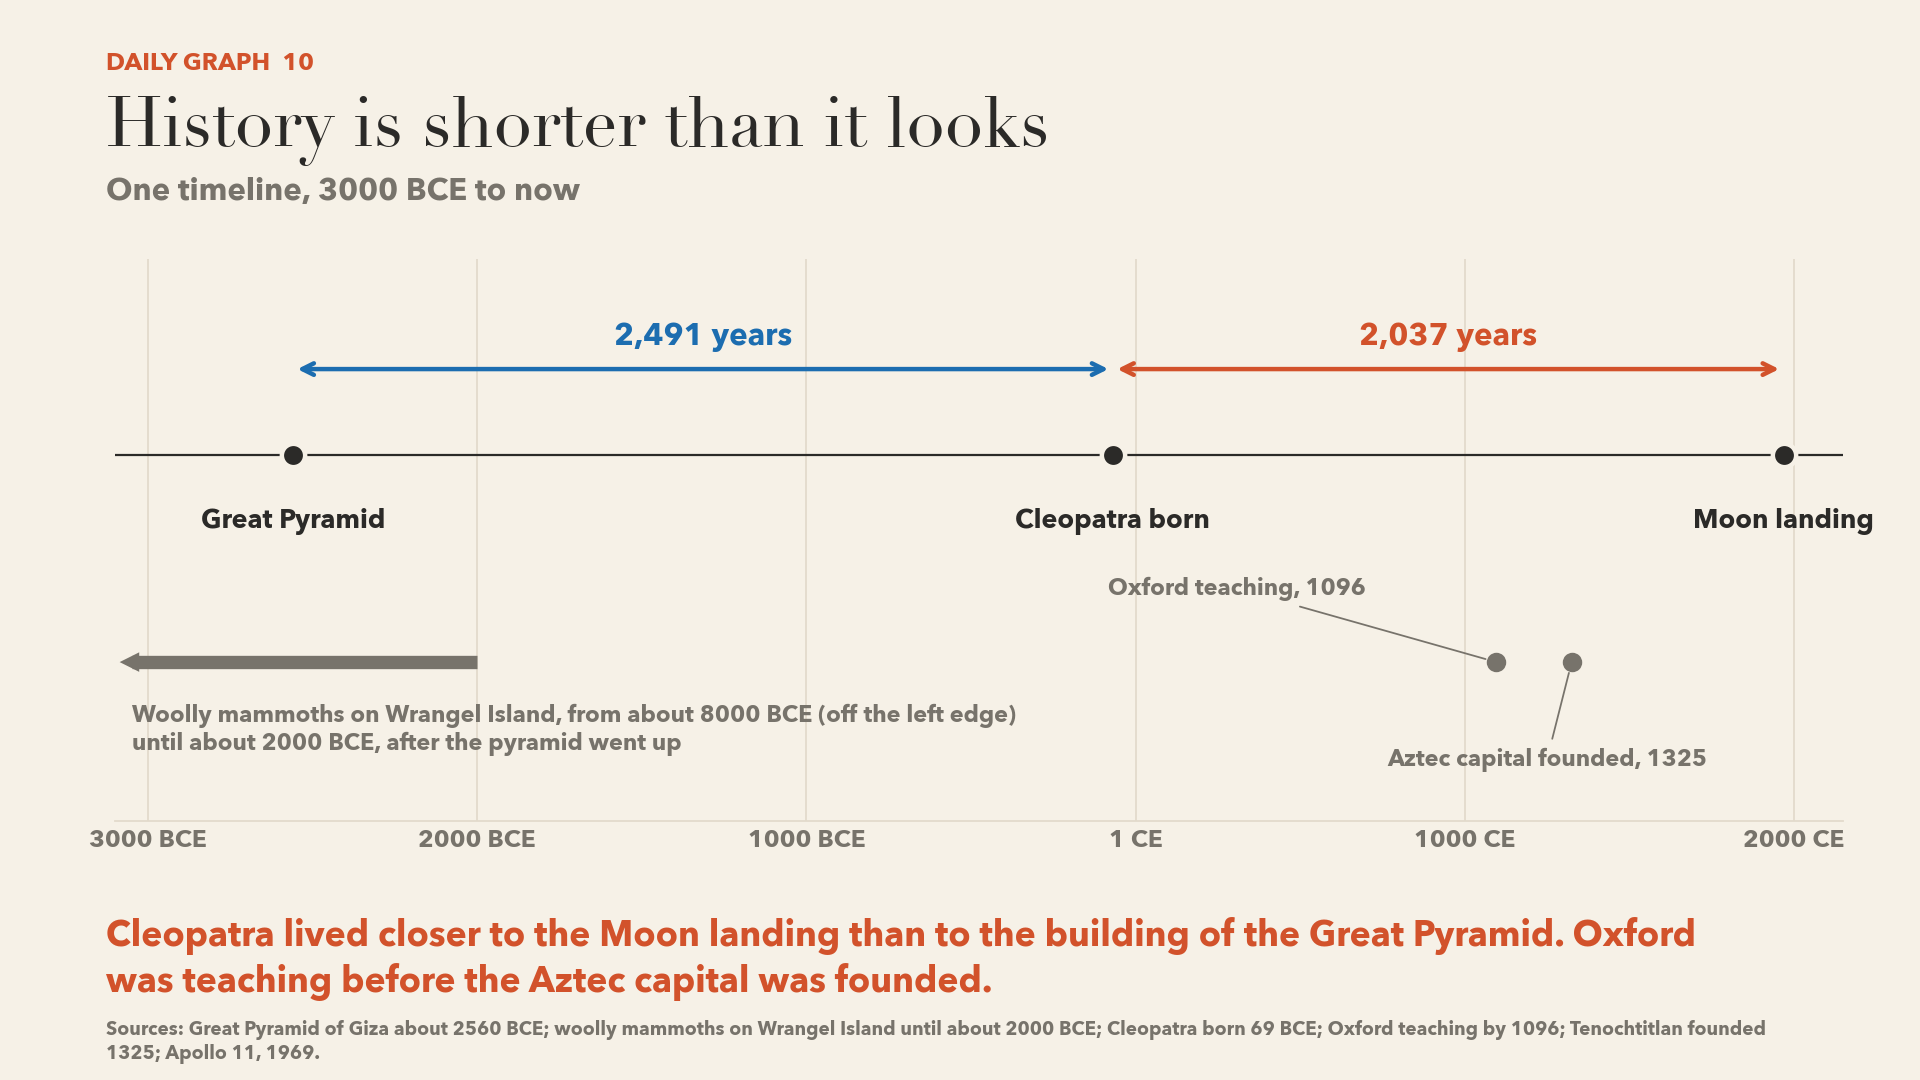
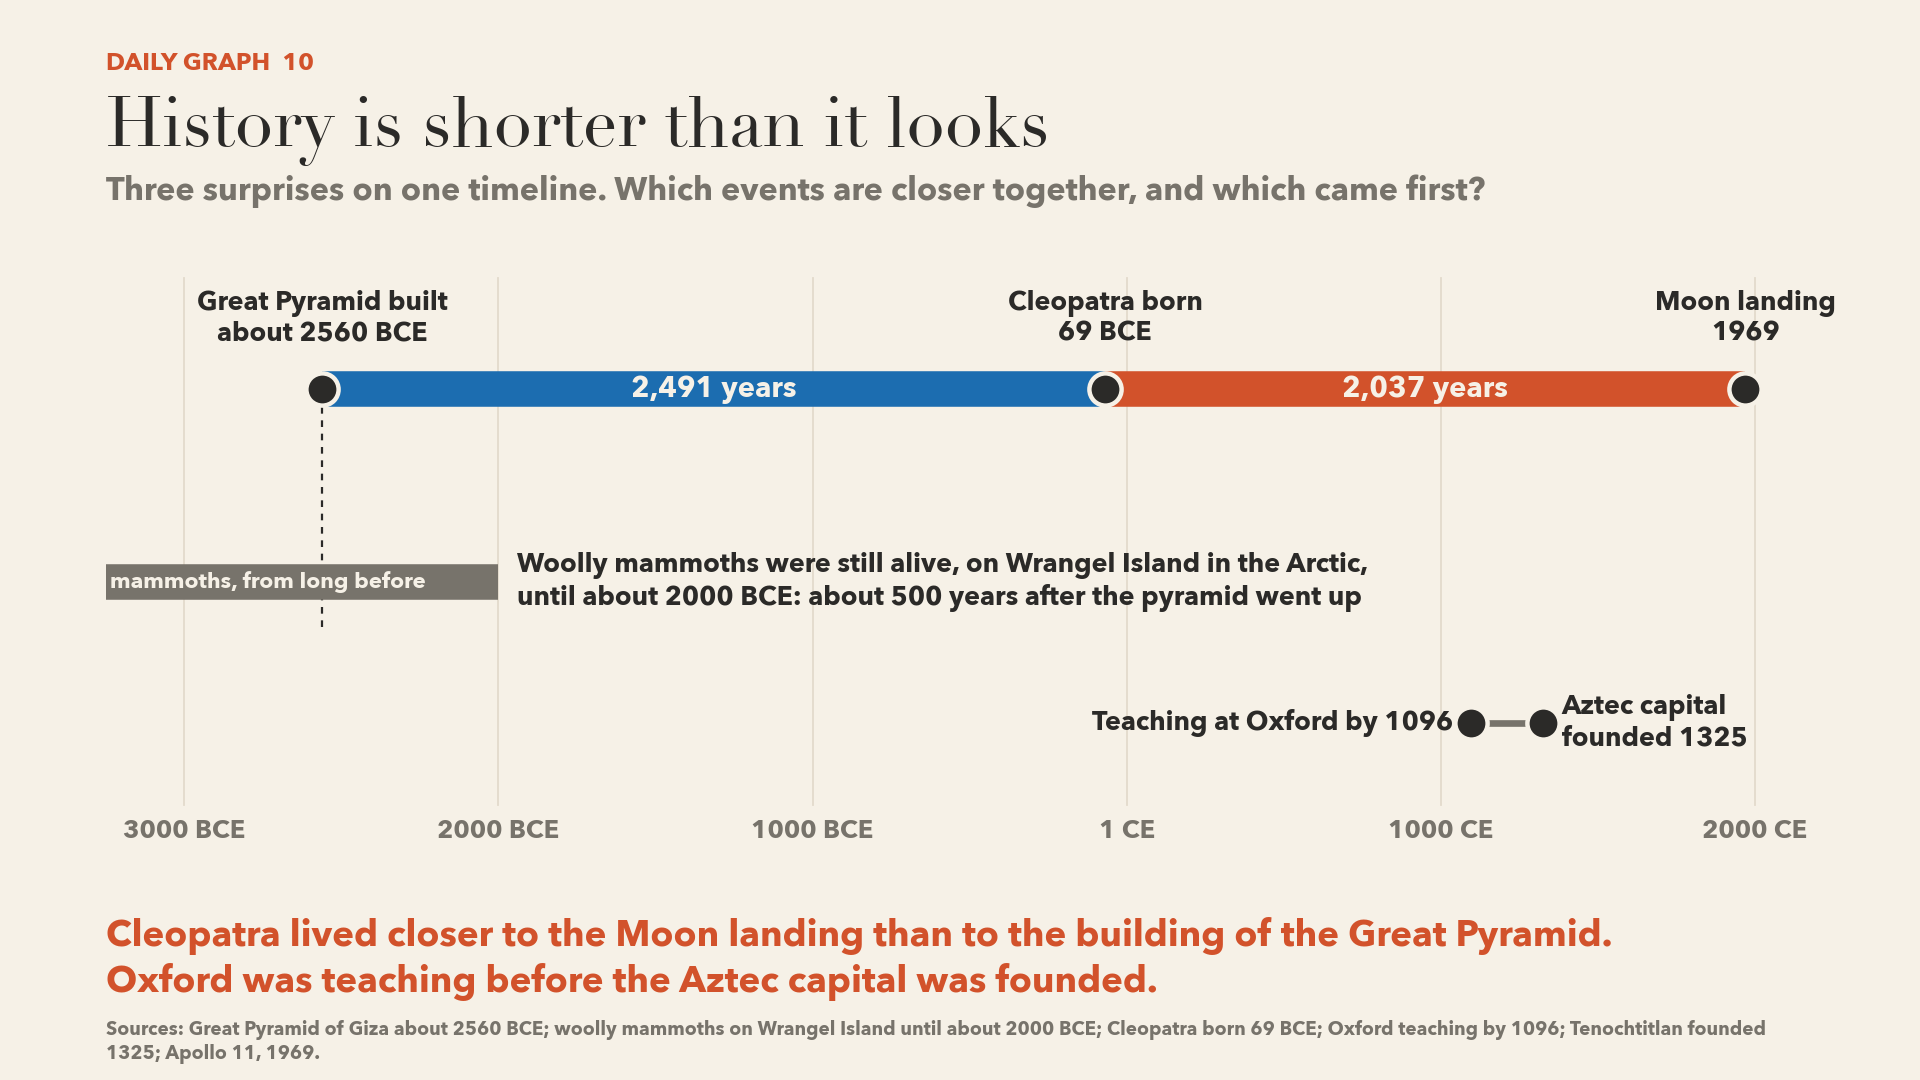
Update gallery

diff --git a/index.html b/index.html
@@ -46,7 +46,15 @@ h3{font:400 30px/1.2 Didot,"Bodoni 72",serif;margin:22px 0 10px}
 </style></head>
 <body><main><h1>Daily Graphs</h1>
 <p class="lede">Each graph puts two things side by side and asks a question. New graphs are posted by day, and the newest day is at the top. Scroll down to go back in time. Click a graph to enlarge it, and open a tile for the story behind it.</p>
-<nav class="days"><a href="#d2026-11-11">Nov 11</a></nav><section class="day" id="d2026-11-11"><header><h2>Wednesday, November 11, 2026</h2><span>10 graphs</span></header>
+<nav class="days"><a href="#d2026-11-11">Nov 11</a></nav><section class="day" id="d2026-11-11"><header><h2>Wednesday, November 11, 2026</h2><span>11 graphs</span></header>
+<section class="graph" id="27-club-tested">
+  <img src="graphs/27-club-tested.png" alt="The 27 Club, tested" loading="lazy">
+  <h3>The 27 Club, tested</h3>
+  <p class="meta">Sources are named at the foot of the graph. Checked 2026-11-11.</p>
+  <details><summary>What am I looking at?</summary><p>No, famous musicians are not more likely to die at 27 than at 25 or 32. In 2011, four researchers took every musician with a UK number one album from 1956 to 2007. That gave them 1,046 people with a known birth date, and they followed each one to August 2011. Three died at 27, two at 25 and four at 32.</p><p>To compare fairly, they divided deaths by the number of musicians alive and already famous at each age. The three rates came out almost the same. The famous 27 Club list was built backwards, by starting from the deaths and then noticing the age. Choosing the deaths first and the rule second is cherry-picking.</p><p>The study did find a real risk. In their 20s and 30s, these musicians died at two to three times the UK rate, though some of them were not from the UK. Pick another age, look up who died at it, and see if you can build a club of your own. A club built from deaths you chose is cherry-picking.</p></details>
+  <details><summary>Words on this graph</summary><dl><dt>Cohort</dt><dd>a group of people chosen at the start by a clear rule and then followed over time. Here the rule was a UK number one album.</dd><dt>Death rate per 100 a year</dt><dd>out of 100 people alive at the start of a year of age, how many die before the next birthday. A rate of 0.57 means about one death for every 175 people.</dd><dt>At risk</dt><dd>the people who could have the event at that age. A musician counts at age 27 only if they were already famous and still alive.</dd><dt>Cherry-picking</dt><dd>choosing only the examples that fit a story and ignoring the rest. Remembering famous deaths at 27 and forgetting the ones at 32 is cherry-picking.</dd><dt>Cluster</dt><dd>a group of events that looks close together. In small numbers, a group like this often appears by chance.</dd></dl></details>
+  <details open><summary>Want to know more?</summary><ul class='links'><li><a href="https://pmc.ncbi.nlm.nih.gov/articles/PMC3243755/" target="_blank" rel="noopener">Is 27 really a dangerous age for famous musicians? Retrospective cohort study</a><span class="kind">scholarly</span><span class="why">BMJ, 2011 (full text on PubMed Central). The study behind the graph: method, the three rates, the UK comparison and the limits in the authors&#x27; own words.</span></li><li><a href="https://researchdatafinder.qut.edu.au/display/q1" target="_blank" rel="noopener">Musician mortality data, 1956-2007</a><span class="kind">primary</span><span class="why">Queensland University of Technology, Research Data Finder. The authors&#x27; open data file: birth, number one and death dates for all 1,046 musicians, so you can count the blocks yourself.</span></li><li><a href="https://www.mortality.org/" target="_blank" rel="noopener">Human Mortality Database</a><span class="kind">primary</span><span class="why">Max Planck Institute for Demographic Research and UC Berkeley. Where the UK death rates in the comparison come from; look up any country&#x27;s death rate by age and year.</span></li><li><a href="https://research.bangor.ac.uk/en/publications/dying-to-be-famous-retrospective-cohort-study-of-rock-and-pop-sta/" target="_blank" rel="noopener">Dying to be famous: retrospective cohort study of rock and pop star mortality</a><span class="kind">scholarly</span><span class="why">Bellis et al., BMJ Open 2012 (Bangor University record). A second study with a different fame rule (1,489 US and European stars) on how much fame raises the death rate and why.</span></li><li><a href="https://sciencedaily.com/releases/2012/12/121219223450.htm" target="_blank" rel="noopener">Successful solo rock/pop stars twice as likely to die early as those in a band</a><span class="kind">journalism</span><span class="why">ScienceDaily, 2012. A short plain-language summary of the second study&#x27;s findings on solo artists and bands.</span></li><li><a href="https://en.wikipedia.org/wiki/27_Club" target="_blank" rel="noopener">27 Club</a><span class="kind">overview</span><span class="why">Wikipedia. The list the myth comes from; compare it with how the study chose its musicians.</span></li></ul></details>
+</section>
 <section class="graph" id="music-machines-first-careers">
   <img src="graphs/music-machines-first-careers.png" alt="Music’s machines had other first careers" loading="lazy">
   <h3>Music’s machines had other first careers</h3>
@@ -122,10 +130,10 @@ h3{font:400 30px/1.2 Didot,"Bodoni 72",serif;margin:22px 0 10px}
 <section class="graph" id="history-is-shorter">
   <img src="graphs/history-is-shorter.png" alt="History is shorter than it looks" loading="lazy">
   <h3>History is shorter than it looks</h3>
-  <p class="meta">Sources are named at the foot of the graph. Checked 2026-11-10.</p>
-  <details><summary>What am I looking at?</summary><p>Cleopatra was born closer in time to the Moon landing than to the building of the Great Pyramid. The pyramid at Giza was built for the king Khufu around 2560 BCE. Cleopatra VII was born in 69 BCE, 2,491 years later. Apollo 11 landed on the Moon in 1969, 2,037 years after her birth. There is no year zero, so to count across the line between BCE and CE, you add the two numbers and subtract one.</p><p>Ancient Egypt lasted so long that people in Cleopatra&#x27;s time already saw the pyramids as old. The last woolly mammoths lived on Wrangel Island, off northern Siberia, and died out after the pyramid was built. The University of Oxford says teaching took place there by 1096, and a named teacher, Theobald of Etampes, appears in the records of the early 1100s. Both dates come before the Mexica founded Tenochtitlan in 1325.</p><p>Pick two dates from the chart, find the gap, and place a third event between them. This skill of putting events in order and measuring the gaps is called chronology.</p></details>
-  <details><summary>Words on this graph</summary><dl><dt>BCE and CE</dt><dd>Before Common Era and Common Era. They count years the same way as the older BC and AD. BCE years count down toward the start of CE, so 2560 BCE is earlier than 69 BCE.</dd><dt>No year zero</dt><dd>The calendar jumps from 1 BCE straight to 1 CE. To find the gap between a BCE year and a CE year, add the two numbers and subtract one.</dd><dt>Wrangel Island</dt><dd>An island in the Arctic Ocean, north of Siberia. Rising seas cut it off about 10,000 years ago, and the last known woolly mammoths lived there.</dd><dt>Tenochtitlan and the Mexica</dt><dd>The Mexica, often called the Aztecs, built Tenochtitlan on an island in Lake Texcoco. Mexico City stands on the same site today.</dd><dt>Teaching at Oxford in 1096</dt><dd>Oxford has no single founding date. 1096 is the date the university gives for the first teaching there. The first teacher known by name, Theobald of Etampes, lectured there about 1117.</dd><dt>Radiocarbon dating</dt><dd>A way to date bones and other once-living material by measuring how much carbon-14 is left. It is how scientists know when the last mammoths lived.</dd></dl></details>
-  <details open><summary>Want to know more?</summary><ul class='links'><li><a href="https://egyptianmuseum.org/explore/old-kingdom-monuments-pyramids-of-giza" target="_blank" rel="noopener">Old Kingdom monuments: the Pyramids of Giza</a><span class="kind">museum</span><span class="why">Rosicrucian Egyptian Museum. A museum&#x27;s short guide to when and why the Giza pyramids were built.</span></li><li><a href="https://www.sciencenews.org/article/last-woolly-mammoths-species-extinct" target="_blank" rel="noopener">The last woolly mammoths offer new clues to why the species went extinct</a><span class="kind">journalism</span><span class="why">Science News. Reports the 2024 genome study of the Wrangel Island mammoths and their extinction about 4,000 years ago.</span></li><li><a href="https://collections.tepapa.govt.nz/agent/49549" target="_blank" rel="noopener">Cleopatra VII (person record)</a><span class="kind">museum</span><span class="why">Museum of New Zealand Te Papa Tongarewa. Museum record with Cleopatra&#x27;s birth and death dates and objects linked to her.</span></li><li><a href="https://repositorio.inah.gob.mx/o-26903" target="_blank" rel="noopener">Zona Arqueologica Templo Mayor</a><span class="kind">primary</span><span class="why">INAH, Instituto Nacional de Antropologia e Historia. Mexico&#x27;s national archaeology institute on the founding of Tenochtitlan in 1325 and its great temple.</span></li><li><a href="https://www.nasa.gov/mission/apollo-11/" target="_blank" rel="noopener">Apollo 11</a><span class="kind">primary</span><span class="why">NASA. NASA&#x27;s mission page for the first crewed Moon landing, July 20, 1969.</span></li><li><a href="https://www.british-history.ac.uk/node/55032" target="_blank" rel="noopener">The University of Oxford (A History of the County of Oxford, vol. 3)</a><span class="kind">scholarly</span><span class="why">Victoria County History, British History Online. The standard scholarly history of the university&#x27;s origins, including the first named teachers at Oxford in the early 1100s.</span></li></ul></details>
+  <p class="meta">Sources are named at the foot of the graph. Checked 2026-11-11.</p>
+  <details><summary>What am I looking at?</summary><p>Cleopatra was born closer in time to the Moon landing than to the building of the Great Pyramid. The pyramid went up at Giza for the king Khufu near 2560 BCE. Cleopatra VII was born in 69 BCE, 2,491 years later. Apollo 11 landed in 1969, 2,037 years after her birth. The calendar has no year zero, so to count across the line between BCE and CE, you add the two numbers and subtract one.</p><p>The other two lanes work the same way. The last woolly mammoths lived on Wrangel Island, north of Siberia, and died out roughly 500 years after the pyramid was finished. The University of Oxford dates its first teaching to 1096, and the Mexica founded Tenochtitlan, the Aztec capital, in 1325.</p><p>Pick two dates from the chart and find the gap between them. Then place a third event from your own country on the same line. Putting events in order and measuring the gaps between them is called chronology.</p></details>
+  <details><summary>Words on this graph</summary><dl><dt>BCE and CE</dt><dd>BCE means Before Common Era, and CE means Common Era. They count years the same way as the older BC and AD. BCE years count down, so 2560 BCE is earlier than 69 BCE.</dd><dt>No year zero</dt><dd>The calendar goes from 1 BCE straight to 1 CE. To find the gap between a BCE year and a CE year, add the two numbers and subtract one: 69 + 1969 - 1 = 2,037.</dd><dt>Wrangel Island</dt><dd>This island lies in the Arctic Ocean, north of Siberia. Rising seas cut it off from the mainland about 10,000 years ago, and the last known woolly mammoths lived there.</dd><dt>Radiocarbon dating</dt><dd>A way to date bones and other once-living material by measuring how much carbon-14 is left in them. It is how scientists know when the last mammoths lived, and it always comes with a margin of error.</dd><dt>Teaching at Oxford by 1096</dt><dd>Oxford has no founding date. 1096 is the year the university gives for the earliest teaching there. The first teacher known by name, Theobald of Etampes, lectured there about 1117.</dd><dt>Aztec capital</dt><dd>Tenochtitlan was the city the Mexica, often called the Aztecs, built on an island in Lake Texcoco. Mexico City stands on the same site today.</dd></dl></details>
+  <details open><summary>Want to know more?</summary><ul class='links'><li><a href="https://egyptianmuseum.org/explore/old-kingdom-monuments-pyramids-of-giza" target="_blank" rel="noopener">Old Kingdom monuments: the Pyramids of Giza</a><span class="kind">museum</span><span class="why">Rosicrucian Egyptian Museum. A museum&#x27;s short guide to when the Giza pyramids were built and for whom.</span></li><li><a href="https://www.helsinki.fi/en/luomus/news/last-mammoths-died-remote-island" target="_blank" rel="noopener">The last mammoths died on a remote island</a><span class="kind">scholarly</span><span class="why">University of Helsinki, Finnish Museum of Natural History. The researchers&#x27; own summary of how the Wrangel Island mammoths lived for 7,000 years after the seas rose and then died out 4,000 years ago.</span></li><li><a href="https://www.sciencenews.org/article/last-woolly-mammoths-species-extinct" target="_blank" rel="noopener">The last woolly mammoths offer new clues to why the species went extinct</a><span class="kind">journalism</span><span class="why">Science News. Reports the 2024 genome study of the last mammoths and what it says about their end.</span></li><li><a href="https://collections.tepapa.govt.nz/agent/49549" target="_blank" rel="noopener">Cleopatra VII Philopator (person record)</a><span class="kind">museum</span><span class="why">Museum of New Zealand Te Papa Tongarewa. A museum record with Cleopatra&#x27;s birth and death dates.</span></li><li><a href="https://www.british-history.ac.uk/node/55032" target="_blank" rel="noopener">The University of Oxford (A History of the County of Oxford, vol. 3)</a><span class="kind">scholarly</span><span class="why">Victoria County History, British History Online. The standard history of how the university began, with the first named teachers at Oxford in the early 1100s.</span></li><li><a href="https://www.nasa.gov/mission/apollo-11/" target="_blank" rel="noopener">Apollo 11</a><span class="kind">primary</span><span class="why">NASA. NASA&#x27;s mission page for the first crewed Moon landing, July 20, 1969.</span></li></ul></details>
 </section></section>
 <footer>Assistant Professor Kramer Gibson, Berklee College of Music</footer></main><script>
 document.querySelectorAll('section.graph img').forEach(i=>i.addEventListener('click',()=>i.classList.toggle('zoom')));

diff --git a/README.md b/README.md
@@ -8,6 +8,7 @@ Every number is checked against a named source before a graph is posted. The sou
 
 ## Wednesday, November 11, 2026
 
+- [The 27 Club, tested](graphs/27-club-tested.png)
 - [Music’s machines had other first careers](graphs/music-machines-first-careers.png)
 - [Chips got bigger. Did we get faster?](graphs/chips-vs-sprinters.png)
 - [Every album has a carbon timestamp](graphs/carbon-timestamp.png)
